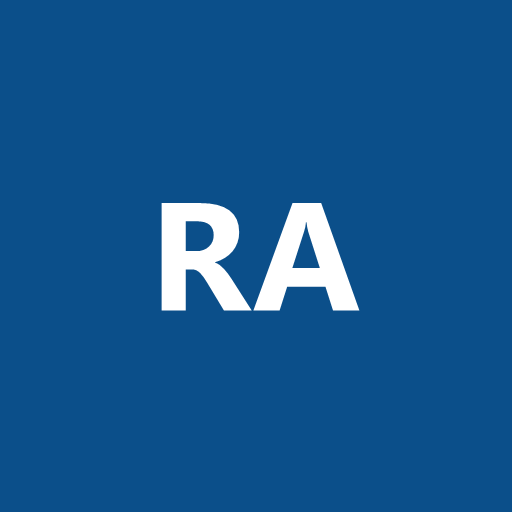
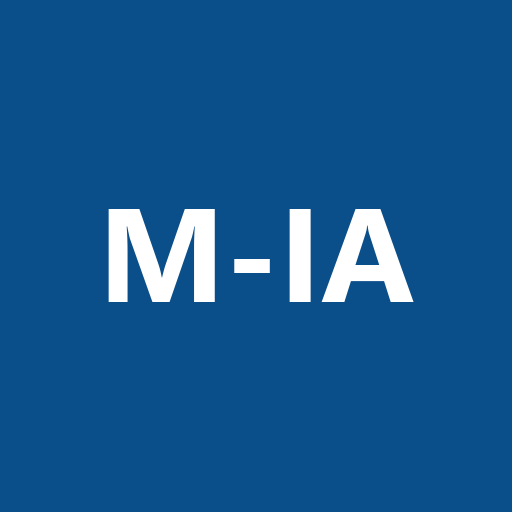
chore: el producto pasa a llamarse M-IA (D-28)
- PWA: título, encabezado, manifiesto e íconos (favicon y PNG 192/512) con "M-IA".
- API ("M-IA — api-core"), paquetes m-ia-backend y m-ia-frontend, User-Agent de la
  ingesta y toda la documentación.
- Se conservan los identificadores técnicos internos (RA_, base rutaaccesible, ra-db,
  claves ra.* del dispositivo): cambiarlos borraría el perfil, la ruta activa y el token
  guardados en cada dispositivo sin beneficio visible.
- El enunciado original queda intacto, con una nota del cambio.
- Se borran tres archivos sueltos de pruebas visuales que no eran del proyecto.

Claude-Session: https://claude.ai/code/session_016yvyqB2i4SCR9SMQt9GA1Q

Changed region(s): [[0.1875, 0.375, 0.8125, 0.625]]

diff --git a/frontend/vite.config.ts b/frontend/vite.config.ts
@@ -27,10 +27,10 @@ export default defineConfig({
       registerType: 'prompt',
       includeAssets: ['favicon.svg'],
       manifest: {
-        name: 'RutaAccesible',
-        short_name: 'RutaAccesible',
+        name: 'M-IA: rutas accesibles en la CDMX',
+        short_name: 'M-IA',
         description:
-          'Rutas accesibles en Metro, Metrobús y Tren Ligero de la Ciudad de México.',
+          'Rutas accesibles en Metro, Metrobús, Tren Ligero y trenes suburbanos de la Ciudad de México.',
         lang: 'es-MX',
         dir: 'ltr',
         start_url: '/',

diff --git a/frontend/src/componentes/Plantilla.tsx b/frontend/src/componentes/Plantilla.tsx
@@ -41,7 +41,7 @@ export function Plantilla() {
       <header className="bg-marca text-white">
         <div className="mx-auto flex max-w-3xl flex-wrap items-center gap-x-6 gap-y-1 px-4 py-2">
           <Link to="/" className="py-2 text-xl font-bold no-underline">
-            RutaAccesible
+            M-IA
           </Link>
           <nav aria-label="Principal">
             <ul className="flex flex-wrap gap-x-1">

diff --git a/frontend/index.html b/frontend/index.html
@@ -11,7 +11,7 @@
       name="description"
       content="Planifica viajes accesibles en Metro, Metrobús y Tren Ligero de la CDMX."
     />
-    <title>RutaAccesible</title>
+    <title>M-IA</title>
   </head>
   <body>
     <div id="root"></div>

diff --git a/backend/app/main.py b/backend/app/main.py
@@ -12,10 +12,10 @@ from app.modulos.reportes.endpoints import router as router_reportes
 from app.modulos.rutas.endpoints import router as router_rutas
 from app.modulos.usuarios.endpoints import router as router_usuarios
 
-VERSION = version("rutaaccesible-backend")
+VERSION = version("m-ia-backend")
 
 app = FastAPI(
-    title="RutaAccesible — api-core",
+    title="M-IA — api-core",
     version=VERSION,
     description=(
         "Planificación de viajes accesibles en Metro, Metrobús, Tren Ligero y trenes "

diff --git a/data/scripts/descargar_gtfs.py b/data/scripts/descargar_gtfs.py
@@ -19,7 +19,7 @@ from pathlib import Path
 API_CKAN = "https://datos.cdmx.gob.mx/api/3/action/package_show?id=gtfs"
 DESTINO = Path(__file__).resolve().parents[1] / "raw" / "gtfs"
 # Identificador genérico: no se envían datos del proyecto ni de la persona usuaria.
-CABECERAS = {"User-Agent": "rutaaccesible-ingesta/0.1"}
+CABECERAS = {"User-Agent": "m-ia-ingesta/0.1"}
 
 
 def _leer(url: str) -> bytes:

diff --git a/docs/decisiones.md b/docs/decisiones.md
@@ -30,6 +30,7 @@ Cada decisión indica el contexto, la elección y la alternativa descartada. Si 
 | D-25 | 2026-11-25 | **Red completa** en el inventario de demostración, adelantando la Fase 9 antes de la voz (Fase 4B): Metro (12 líneas), Metrobús, Tren Ligero, Tren Suburbano y Tren El Insurgente. **D-19 se mantiene**: la falta de elevadores en el Metro se compensa con **transbordos entre sistemas** (conexiones a pie entre salidas cercanas de sistemas distintos). Estados iniciales con un escenario **sintético** determinista aplicado como avisos DEMO a través del estimador | Con D-19, 119 de las 195 paradas del Metro en el GTFS 2026-08-28 no son accesibles; el Metrobús sí lo es casi por completo (354 de 373), y el Suburbano (7) y El Insurgente (5) lo son en todas. El corredor L2–L3 no permite simular transbordos accesibles ni rutas intermodales | Mantener el corredor hasta después del MVP (D-17); inventar elevadores en el Metro; incluir Trolebús, Cablebús y RTP (fuera del alcance por ahora) | Aceptada |
 | D-26 | 2026-11-25 | **La persona siempre recibe una opción.** Si no hay ruta segura, la respuesta lo dice primero ("No hay ruta segura hasta tu destino") y ofrece **otras opciones**, separadas de las alternativas y en este orden: (1) ruta segura por otros sistemas, (2) ruta segura hasta la **estación accesible más cercana al destino** con la distancia restante, (3) ruta que funcionaría **si se repara** un equipo en falla, (4) **siempre al final**, la ruta completa **con asistencia**, que marca en rojo cada estación donde hay que pedir ayuda y el problema ("Hidalgo: escalera de 24 escalones"). Precisa la regla de seguridad 3 | Dejar a la persona sin ninguna opción es inútil en la práctica; mostrar una ruta con escalones como si fuera buena es peligroso. Separarla, etiquetarla y ponerla al final cumple las dos cosas | Sólo opciones 1–3; mezclar la ruta con asistencia entre las alternativas | Aceptada |
 | D-27 | 2026-11-25 | **Alternativas por el método de penalización** en lugar de Yen: tras cada ruta se multiplican por 1.6 los pesos de sus aristas y se busca de nuevo (Dijkstra con el límite de transbordos en el estado), hasta 3 firmas distintas o 10 búsquedas. La primera ruta sigue siendo la de costo mínimo; la regla 3 se cumple porque sólo cambian pesos, nunca aristas | Medido con la red completa (D-25): Yen tardaba p50 1.4 s y p95 ≈ 4 s (hasta 17 s), examinaba decenas de variantes casi iguales y a veces no llegaba a 3 alternativas. Con penalización, plan B sin reconstruir el grafo y la parte del grafo que sólo depende del perfil en caché: p50 ≈ 340 ms, p95 450–510 ms en tres corridas de 100 pares (`data/reportes/rendimiento-rutas.md`). Las alternativas dejan de ser las k más baratas, pero comparten menos tramos y equipos: si falla un elevador de la primera, es menos probable que también afecte a las otras | Conservar Yen (exacto, pero sin cumplir p95 < 1 s); Yen con tope de tiempo y penalización como respaldo (dos comportamientos que explicar) | Aceptada |
+| D-28 | 2026-11-25 | **El producto se llama M-IA** (antes RutaAccesible) en todo lo que ve una persona o un lector del proyecto: PWA (título, encabezado, manifiesto e íconos), API, paquetes, documentación y repositorio público `M-IA`. Se **conservan** los identificadores técnicos internos: prefijo `RA_` de las variables de entorno, base `rutaaccesible`, contenedor `ra-db` y claves `ra.*` del almacenamiento del dispositivo | Decisión del autor. Cambiar las claves `ra.*` borraría en cada dispositivo el perfil, la ruta activa guardada sin señal y el token anónimo; cambiar la base o el prefijo obligaría a recrear el entorno local sin ningún beneficio visible. El enunciado original (`docs/prompt-original.md`) se deja intacto, con una nota | Renombrar también los identificadores internos | Aceptada |
 
 ## Decisiones pendientes
 

diff --git a/docs/arquitectura/04-data-ml-ia.md b/docs/arquitectura/04-data-ml-ia.md
@@ -83,7 +83,7 @@ $$y_{k,d,f} = 1 \text{ si el equipo estuvo en falla (probable o confirmada) dura
 - **División temporal**, nunca aleatoria: se entrena con los meses más antiguos, se valida con el siguiente y se prueba con el último. Así se evita que el modelo "vea el futuro".
 - **Métricas**, elegidas porque las fallas son poco frecuentes (clases desbalanceadas):
   - **PR-AUC** y **recall en el top 10 %** ("de las fallas reales, ¿cuántas estaban entre el 10 % de equipos con mayor riesgo?"), útiles para el operador.
-  - **Brier score y curva de calibración**: es la métrica más importante para RutaAccesible, porque las probabilidades se usan **como números** dentro del costo de la ruta. Un modelo que dice 30 % cuando la frecuencia real es 60 % generaría rutas engañosamente optimistas. Si hace falta, se calibra con regresión isotónica o de Platt.
+  - **Brier score y curva de calibración**: es la métrica más importante para M-IA, porque las probabilidades se usan **como números** dentro del costo de la ruta. Un modelo que dice 30 % cuando la frecuencia real es 60 % generaría rutas engañosamente optimistas. Si hace falta, se calibra con regresión isotónica o de Platt.
   - **Métrica de negocio en *backtesting***: con el historial, se simulan las rutas que el motor habría recomendado y se mide cuántas habrían pasado por un equipo que en realidad estaba fallando.
 - **Explicabilidad**: `ML.EXPLAIN_PREDICT` entrega los factores que más pesaron en cada predicción; el dashboard muestra, por ejemplo, "riesgo alto: 3 fallas en 30 días + temporada de lluvias".
 
@@ -152,7 +152,7 @@ flowchart LR
 
 **Funciones de Vision API utilizadas**
 
-| Función | Uso en RutaAccesible |
+| Función | Uso en M-IA |
 |---|---|
 | Detección de etiquetas y de objetos | ¿Aparece un elevador, una rampa, escaleras, una puerta metálica, cinta de restricción, un obstáculo? |
 | Detección de texto (OCR) | Leer letreros como "FUERA DE SERVICIO", "EN MANTENIMIENTO", "NO FUNCIONA"; leer señalética con el nombre de la estación. |
@@ -283,7 +283,7 @@ La razón: declarar "funciona" un elevador que no funciona puede dejar a alguien
 | **Places API** (autocompletado) y **Geocoding API** | Convertir "Hospital General" o "CU" en coordenadas; geocodificación inversa de reportes | Las personas no piensan en coordenadas |
 | **Routes API** (modo a pie) | Tramos a pie desde el origen hasta la estación y de la estación al destino | Sólo para la primera y última milla |
 
-**Por qué el ruteo en transporte público es propio y no de Google**: la Routes API, para rutas de transporte público, sólo admite preferencias de "menos caminata" o "menos transbordos", no una opción de silla de ruedas ni el estado dinámico de los equipos. RutaAccesible necesita controlar el costo de cada arista, así que calcula el trayecto en transporte con su propio grafo y usa Google Maps para todo lo demás.
+**Por qué el ruteo en transporte público es propio y no de Google**: la Routes API, para rutas de transporte público, sólo admite preferencias de "menos caminata" o "menos transbordos", no una opción de silla de ruedas ni el estado dinámico de los equipos. M-IA necesita controlar el costo de cada arista, así que calcula el trayecto en transporte con su propio grafo y usa Google Maps para todo lo demás.
 
 **Limitación reconocida**: los tramos a pie de Routes API no garantizan banquetas accesibles (rampas en esquinas, pendientes). El MVP mitiga esto limitando la distancia a pie según el perfil y avisando a la persona; la versión futura incorporará datos de banquetas (ver documento 09).
 

diff --git a/docs/arquitectura/02-arquitectura-general.md b/docs/arquitectura/02-arquitectura-general.md
@@ -4,7 +4,7 @@
 
 ### 3.1 Estilo arquitectónico
 
-RutaAccesible usa un **monolito modular desplegado en Cloud Run, más trabajadores asíncronos dirigidos por eventos (Pub/Sub)**. Se eligió este estilo, en lugar de microservicios desde el inicio, por tres razones:
+M-IA usa un **monolito modular desplegado en Cloud Run, más trabajadores asíncronos dirigidos por eventos (Pub/Sub)**. Se eligió este estilo, en lugar de microservicios desde el inicio, por tres razones:
 
 1. **Equipo y plazo pequeños**: un solo servicio de API (`api-core`) con módulos bien separados (usuarios, rutas, estado, reportes, voz) es más fácil de construir, probar y explicar.
 2. **Fronteras listas para separarse**: cada módulo tiene su propio paquete, sus tablas y sus eventos; si uno crece (por ejemplo, el motor de rutas), se extrae a su propio servicio de Cloud Run sin rediseñar.
@@ -45,7 +45,7 @@ La arquitectura se presenta en dos vistas complementarias: una **por capas**, pa
 flowchart TB
   subgraph L1["1 · Presentación"]
     direction LR
-    PWA["PWA RutaAccesible<br/>React · web y móvil"]
+    PWA["PWA M-IA<br/>React · web y móvil"]
     ADM["Consola de moderación"]
     LKS["Looker Studio<br/>dashboard"]
   end
@@ -224,7 +224,7 @@ En el IAR cada equipo cuenta **una sola vez** aunque la ruta lo use en dos conex
 
 | Componente | Tecnología | Entradas | Salidas | Notas de diseño |
 |---|---|---|---|---|
-| **PWA RutaAccesible** | React + TypeScript + Vite, instalable | Interacción, GPS, cámara, micrófono | Peticiones a la API, mapa | Cumple WCAG 2.2 AA; funciona con lector de pantalla; guarda la última ruta para consultarla sin señal dentro del Metro. |
+| **PWA M-IA** | React + TypeScript + Vite, instalable | Interacción, GPS, cámara, micrófono | Peticiones a la API, mapa | Cumple WCAG 2.2 AA; funciona con lector de pantalla; guarda la última ruta para consultarla sin señal dentro del Metro. |
 | **API Gateway** | Google API Gateway | Peticiones HTTPS con JWT | Peticiones validadas a Cloud Run | Valida el token emitido por Identity Platform, aplica cuotas por consumidor y limita la tasa de reportes para evitar abuso. |
 | **api-core** | FastAPI en Cloud Run | Peticiones REST | Respuestas JSON, eventos Pub/Sub | Monolito modular; carga el grafo en memoria al arrancar; mantiene una instancia mínima activa para evitar arranques en frío. |
 | **worker-validacion** | Cloud Run (push de Pub/Sub) | Evento `reporte-creado` | Puntaje de confianza, evento `reporte-validado` | Llama a Vision API y Gemini, verifica geolocalización y duplicados, difumina rostros antes de publicar la foto. |

diff --git a/docs/arquitectura/01-resumen-y-propuesta.md b/docs/arquitectura/01-resumen-y-propuesta.md
@@ -2,13 +2,13 @@
 
 ## 1. Resumen ejecutivo
 
-**RutaAccesible** es una plataforma web y móvil (PWA) de planificación de viajes en transporte público de la Ciudad de México (Metro, Metrobús y Tren Ligero) diseñada para personas con movilidad reducida, en particular usuarias y usuarios de silla de ruedas.
+**M-IA** es una plataforma web y móvil (PWA) de planificación de viajes en transporte público de la Ciudad de México (Metro, Metrobús y Tren Ligero) diseñada para personas con movilidad reducida, en particular usuarias y usuarios de silla de ruedas.
 
 Su idea central invierte la lógica de los planificadores convencionales:
 
 > **La accesibilidad es una restricción y el criterio principal de optimización; la rapidez es un criterio secundario.**
 
-Un planificador tradicional minimiza el tiempo de viaje. RutaAccesible maximiza la **probabilidad de completar el viaje sin encontrar una barrera insalvable** (un elevador fuera de servicio, una rampa bloqueada, un transbordo sin circulación vertical accesible) y, entre las rutas igualmente seguras, prefiere la más rápida.
+Un planificador tradicional minimiza el tiempo de viaje. M-IA maximiza la **probabilidad de completar el viaje sin encontrar una barrera insalvable** (un elevador fuera de servicio, una rampa bloqueada, un transbordo sin circulación vertical accesible) y, entre las rutas igualmente seguras, prefiere la más rápida.
 
 Para lograrlo, la plataforma mantiene un **estado vivo de la infraestructura accesible**: un inventario de elevadores, rampas y accesos a nivel por estación, cuyo estado se actualiza combinando tres fuentes:
 
@@ -73,7 +73,7 @@ Para la mayoría de las personas, un elevador descompuesto significa subir escal
 
 ### Diferenciadores frente a un planificador convencional
 
-| Criterio | Planificador convencional | RutaAccesible |
+| Criterio | Planificador convencional | M-IA |
 |---|---|---|
 | Objetivo de optimización | Minimizar tiempo | Maximizar probabilidad de completar el viaje; tiempo como desempate |
 | Dato de accesibilidad | Estático por estación (si existe) | Estado dinámico por equipo (elevador, rampa) con nivel de confianza |

diff --git a/CLAUDE.md b/CLAUDE.md
@@ -2,13 +2,13 @@
 
 This file provides guidance to Claude Code (claude.ai/code) when working with code in this repository.
 
-**Proyecto: RutaAccesible.** Léelo completo antes de proponer o escribir código.
+**Proyecto: M-IA.** Léelo completo antes de proponer o escribir código.
 
 ## Qué es este proyecto
 
-**RutaAccesible** es una PWA de planificación de viajes en transporte público de la CDMX (Metro, Metrobús, Tren Ligero, Tren Suburbano y Tren El Insurgente) para personas con movilidad reducida, especialmente usuarias de silla de ruedas. Optimiza la **probabilidad de completar el viaje sin barreras**; el tiempo es criterio secundario.
+**M-IA** es una PWA de planificación de viajes en transporte público de la CDMX (Metro, Metrobús, Tren Ligero, Tren Suburbano y Tren El Insurgente) para personas con movilidad reducida, especialmente usuarias de silla de ruedas. Optimiza la **probabilidad de completar el viaje sin barreras**; el tiempo es criterio secundario.
 
-Es el proyecto de un **curso de cómputo en la nube** (especialización Data, ML e IA en Google Cloud). Se presentará ante el profesor con **tono académico de nivel maestría**. La carpeta del repositorio se llama `mapaUsuarios`; el producto se llama RutaAccesible.
+Es el proyecto de un **curso de cómputo en la nube** (especialización Data, ML e IA en Google Cloud). Se presentará ante el profesor con **tono académico de nivel maestría**. La carpeta local se llama `mapaUsuarios`; el producto y el repositorio público se llaman **M-IA** (antes RutaAccesible, D-28). Los identificadores técnicos `RA_`, `rutaaccesible`, `ra-db` y `ra.*` se conservan a propósito.
 
 ## Estado actual
 

diff --git a/docs/arquitectura/05-servicios-gcp.md b/docs/arquitectura/05-servicios-gcp.md
@@ -12,7 +12,7 @@ Cuando dos servicios cubren lo mismo, se elige el más simple y se documenta la 
 
 ## 8.2 Servicios seleccionados
 
-| Servicio | Rol en RutaAccesible | Justificación | Alternativa descartada y por qué | MVP |
+| Servicio | Rol en M-IA | Justificación | Alternativa descartada y por qué | MVP |
 |---|---|---|---|---|
 | **Cloud Run** | Aloja `api-core`, `worker-validacion`, `worker-estado` y los Jobs por lotes | Contenedores sin servidores que administrar, escala a cero, escala horizontal automática, soporta tanto servicios HTTP como Jobs | **App Engine**: menos flexible con dependencias nativas (PostGIS, NetworkX) y sin Jobs por lotes; **GKE**: excesivo para el tamaño del proyecto | Sí |
 | **Cloud SQL para PostgreSQL + PostGIS** | Fuente de verdad del estado operativo | Relaciones fuertes entre estaciones, equipos y reportes; transacciones; consultas espaciales nativas | **Firestore**: excelente para sincronización en tiempo real, pero sin *joins* ni consultas geoespaciales ricas; se reserva como opción futura para notificaciones en vivo | Sí |

diff --git a/docs/prompt-original.md b/docs/prompt-original.md
@@ -1,5 +1,7 @@
 # PROMPT: Diseño de arquitectura de producto – RutaAccesible
 
+> Enunciado original, sin cambios. El producto se llamó RutaAccesible hasta el 2026-11-25; desde entonces se llama **M-IA** (D-28).
+
 Quiero que diseñes la arquitectura tecnológica integral de un sistema web y móvil llamado **RutaAccesible**, una plataforma inteligente de transporte público enfocada en personas con movilidad reducida, especialmente personas usuarias de sillas de ruedas.
 
 El proyecto busca resolver un problema de inclusión y accesibilidad: las aplicaciones actuales de transporte público muestran rutas y tiempos estimados, pero no proporcionan información confiable y actualizada sobre la accesibilidad de estaciones, elevadores, rampas y unidades de transporte. Esto dificulta que una persona con movilidad reducida pueda planificar un traslado seguro y confiable.
